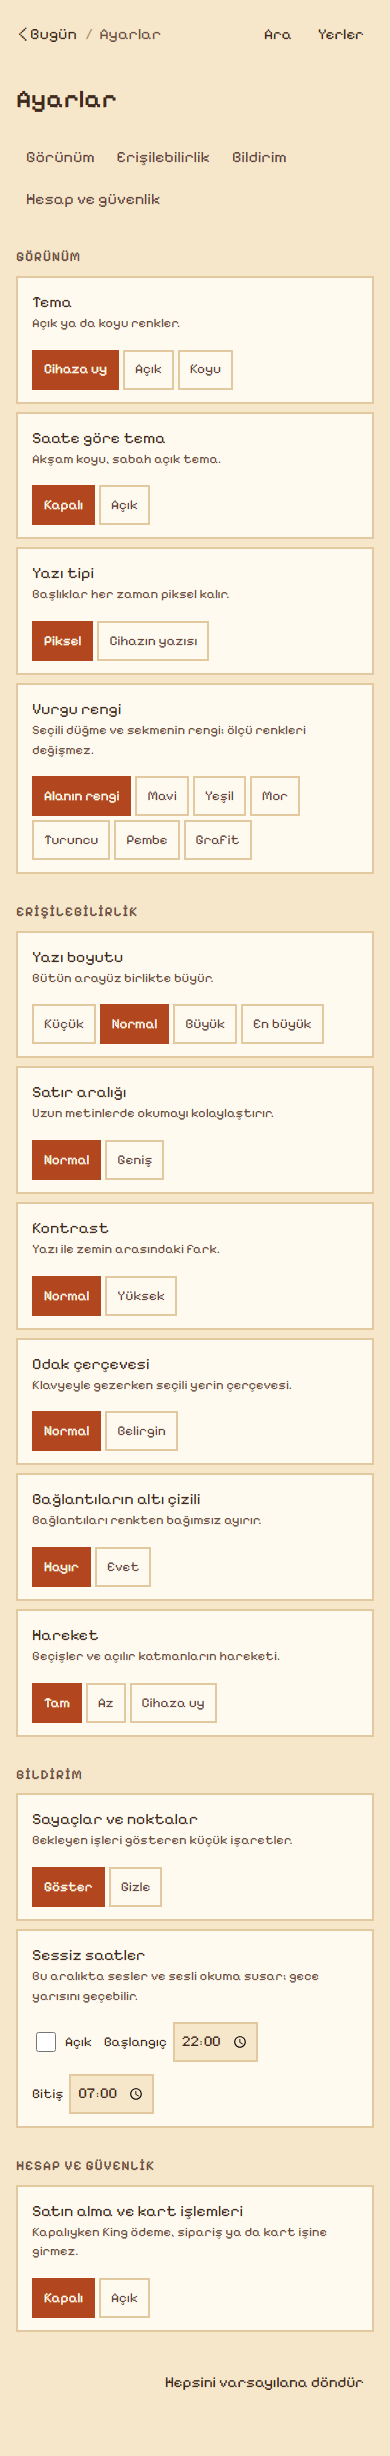
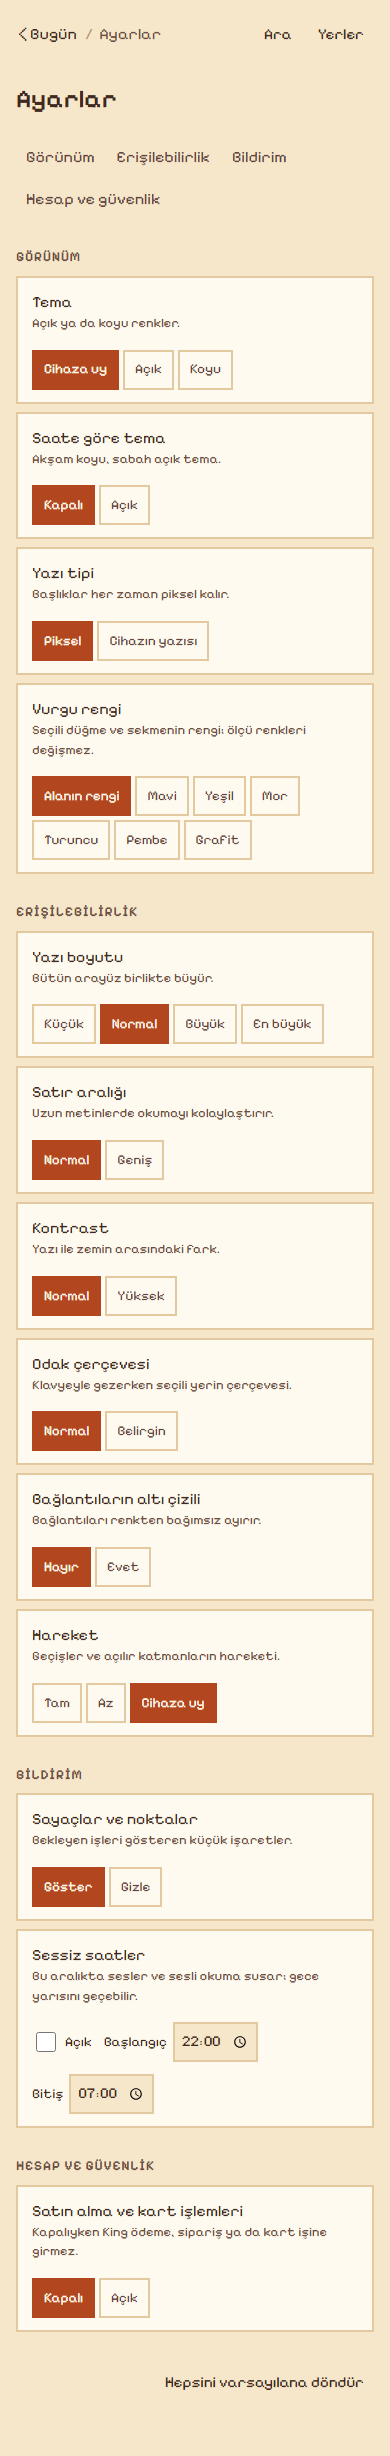
Faz 2 kabuk: sahibinin dokuz karari islendi (selamda Hesap adi, hareket varsayilani cihaza uy)
Yedi karar iskeletteki hali onayladi; ikisi kodu degistirdi. Ayarlar onizlemeleri
yeni varsayilanla yeniden cekildi; kabuk testleri 27/27.

Changed region(s): [[0.3385, 0.6808, 0.5538, 0.7117], [0.0615, 0.6808, 0.2154, 0.7117]]

diff --git a/kabuk/kabuk.js b/kabuk/kabuk.js
@@ -62,8 +62,13 @@
     return yerler.concat(ayarlar, eylemler);
   }
 
+  function selam(t, ad) {
+    var s = t.getHours(), soz = s < 5 ? 'İyi geceler' : s < 12 ? 'Günaydın' : s < 18 ? 'İyi günler' : 'İyi akşamlar';
+    ad = String(ad || '').trim();
+    return soz + (ad ? ' ' + ad : '') + '.';
+  }
   var Kabuk = kok.LIFEOS && kok.LIFEOS.Kabuk || {};
-  Kabuk.katla = katla; Kabuk.puan = puan; Kabuk.ara = ara; Kabuk.komutOgeleri = komutOgeleri;
+  Kabuk.katla = katla; Kabuk.puan = puan; Kabuk.ara = ara; Kabuk.komutOgeleri = komutOgeleri; Kabuk.selam = selam;
   kok.LIFEOS = kok.LIFEOS || {}; kok.LIFEOS.Kabuk = Kabuk;
   if (typeof module !== 'undefined' && module.exports) module.exports = Kabuk;
   if (typeof document === 'undefined') return;
@@ -88,7 +93,10 @@
   var GUN = ['Pazar', 'Pazartesi', 'Salı', 'Çarşamba', 'Perşembe', 'Cuma', 'Cumartesi'];
   var AY = ['Ocak', 'Şubat', 'Mart', 'Nisan', 'Mayıs', 'Haziran', 'Temmuz', 'Ağustos', 'Eylül', 'Ekim', 'Kasım', 'Aralık'];
   function tarih(t) { return GUN[t.getDay()] + ' · ' + t.getDate() + ' ' + AY[t.getMonth()]; }
-  function selam(t) { var s = t.getHours(); return s < 5 ? 'İyi geceler.' : s < 12 ? 'Günaydın.' : s < 18 ? 'İyi günler.' : 'İyi akşamlar.'; }
+  // ad Hesap oturumundan (hitap, yoksa görünen ad); Hesap yüklü değilse ya da oturum yoksa adsız selam
+  function hesapAdi() {
+    try { var o = kok.LIFEOS.Hesap.durum().oturum; return o ? (o.hitap || o.gorunen_ad || '') : ''; } catch (e) { return ''; }
+  }
   var DURUM_AD = { eski: 'eski sayfada', pilot: 'taşınıyor', plan: 'hazırlanıyor', yeni: '' };
 
   /* ---- Felsefe: Yol motoru salt okunur yüklenir; içerik dosyası file:// üzerinden okunamazsa yuva boş kalır ---- */
@@ -124,7 +132,7 @@
     var t = new Date(), ipucu = depo.getItem('lifeos.kabuk.ipucu') !== 'goruldu';
     var f = felsefe && !felsefe.hata ? felsefe : null;
     return ust('<span class="ust__tarih">' + tarih(t) + '</span>') +
-      '<div class="karsila"><h1 class="karsila__selam">' + selam(t) + '</h1>' +
+      '<div class="karsila"><h1 class="karsila__selam">' + kac(selam(t, hesapAdi())) + '</h1>' +
       '<p class="karsila__sira"><span class="soluk">Sırada</span><br>Felsefe · ' + (f ? kac(f.asama.ad) : 'ilk aşama') + '</p>' +
       '<a class="dugme dugme--ana" href="#/alan/felsefe">Başla</a>' +
       '<p class="karsila__sonra soluk">Günün geri kalanı plan aracı gelince burada görünür.</p>' +

diff --git a/kabuk/ayar.js b/kabuk/ayar.js
@@ -36,7 +36,7 @@
       secenekler: { normal: 'Normal', belirgin: 'Belirgin' }, aciklama: 'Klavyeyle gezerken seçili yerin çerçevesi.', kaynak: ENV + ' §3b lifeos.odak' },
     { anahtar: 'lifeos.altcizgi', ad: 'Bağlantıların altı çizili', tur: 'secim', varsayilan: 'hayir', grup: 'erisim', kok: 'data-altcizgi', esitlenir: true,
       secenekler: { hayir: 'Hayır', evet: 'Evet' }, aciklama: 'Bağlantıları renkten bağımsız ayırır.', kaynak: ENV + ' §3b lifeos.altcizgi' },
-    { anahtar: 'lifeos.hareket', ad: 'Hareket', tur: 'secim', varsayilan: 'tam', grup: 'erisim', kok: 'data-hareket', esitlenir: true,
+    { anahtar: 'lifeos.hareket', ad: 'Hareket', tur: 'secim', varsayilan: 'sistem', grup: 'erisim', kok: 'data-hareket', esitlenir: true,
       secenekler: { tam: 'Tam', az: 'Az', sistem: 'Cihaza uy' }, aciklama: 'Geçişler ve açılır katmanların hareketi.', kaynak: ENV + ' §3c Animasyon: hareket' },
     { anahtar: 'lifeos.rozet', ad: 'Sayaçlar ve noktalar', tur: 'secim', varsayilan: 'acik', grup: 'bildirim', kok: 'data-rozet', esitlenir: true,
       secenekler: { acik: 'Göster', kapali: 'Gizle' }, aciklama: 'Bekleyen işleri gösteren küçük işaretler.', kaynak: ENV + ' §3b lifeos.rozet' },

diff --git a/kabuk/kabuk.test.js b/kabuk/kabuk.test.js
@@ -15,6 +15,14 @@ function sahteDepo(ilk) {
   return { v, getItem: k => (k in v ? v[k] : null), setItem: (k, x) => { v[k] = String(x); }, removeItem: k => { delete v[k]; } };
 }
 
+// ---- sahibinin kararları (faz2-kabuk.md «Kararlar», 2026-11-13) ----
+t('karar: selam adı ekler, adsızsa yalın, saat dilimleri', () => {
+  const s = (saat, ad) => K.selam(new Date(2026, 10, 13, saat), ad);
+  esit([s(3), s(8), s(13), s(20)], ['İyi geceler.', 'Günaydın.', 'İyi günler.', 'İyi akşamlar.']);
+  esit(s(8, 'Altay'), 'Günaydın Altay.'); esit(s(8, '  '), 'Günaydın.'); esit(s(8, null), 'Günaydın.');
+});
+t('karar: hareket varsayılanı cihaza uyar', () => esit(A.tanim('lifeos.hareket').varsayilan, 'sistem'));
+
 // ---- harita ----
 t('harita: kayıt geçerli (denetle boş liste)', () => esit(H.denetle(), []));
 t('harita: id ve yol tekil', () => {

diff --git a/belgeler/ekip/sadelesme/faz2-kabuk.md b/belgeler/ekip/sadelesme/faz2-kabuk.md
@@ -115,22 +115,30 @@ Aynı koşuda işlev denetimi (sonuçlar):
 - Dört boyut/tema birleşiminde yatay taşma yok; konsolda hata yok.
 
 ## Testler
-`node kabuk/kabuk.test.js` → **25 geçti, 0 kaldı** (çıkış 0). Kapsam: kayıt geçerliliği (tekil id/yol, on alan, yedi motor ve King,
+`node kabuk/kabuk.test.js` → **27 geçti, 0 kaldı** (çıkış 0). Kapsam: kayıt geçerliliği (tekil id/yol, on alan, yedi motor ve King,
 eski bağlantılar, Felsefe pilot, halkadan ≤ 2 adım, komut çubuğundan 1 adım, bozuk kaydı yakalama), şema türetmeleri (zorunlu alanlar,
 varsayılan geçerli, doğrulama, bozuk değerde varsayılan, sıfırlama, eşitleme süzgeci, kök nitelikleri, çizimde kaçış ve radyo
 sayısı), sıralama (ç ğ ı İ ö ş ü katlama, aksansız arama, ad başı › kelime başı › açıklama, eşitlikte tür ve kısa ad, çok kelime).
 
-## Açık sorular
-1. **Halkada hangi yerler?** Şimdi altı: Bugün, Öğren, Sağlık, Not, King, Sistem haritası. Plan maketinde beş vardı (Ana sayfa,
-   Öğren, Sağlık, Not, King); altıncıyı (harita) her yere iki adım kuralı için ekledim. Ayarlar halkada değil, komut çubuğunda ve haritada.
-2. **«Motorlar» ekranda ne adla?** İç terim görünmesin diye «Araçlar» yazdım. Plan haritası «Motorlar» diyor.
-3. **Karşılama selamında ad:** maket «Günaydın Altay.» diyor; kabukta henüz profil kaynağı yok, ad gelmiyor. Ad nereden okunacak (kişi modeli mi, Hesap mı)?
-4. **Hareket varsayılanı:** eski karar «Tam» (cihazın «hareketi azalt» isteğini de geçersiz kılar). Erişilebilirlik için «Cihaza uy» daha güvenli; hangisi?
-5. **Yazı tipi seçenekleri:** eski listede altı yazı vardı (Inter, Manrope…); piksel kimlik kararıyla «Piksel / Cihazın yazısı» ikiye indirdim. Doğru mu?
-6. **Alan → eski modül eşlemesi:** Müzik ve Okuma ve yazı ESP'ye, Tahlil SPİ'ye bağlandı (çıkarım). Doğru mu?
-7. **Telefonda komut çubuğu:** plandaki «aşağı çek» hareketi yazılmadı; telefonda üst şeritteki «Ara» düğmesi var. Hareket gerekli mi?
-8. **Halka zemini:** okunurluk için yuvarlak bir zemin ekledim (piksel köşeli değil). Kare ya da zeminsiz varyasyon istenirse gösterilebilir.
-9. **«Hepsini varsayılana döndür»** ödeme kilidini de kapatır (güvenli yön). Eski «s» bayrağı (yalnız bazı ayarlar sıfırlanır) şemaya alınmadı; gerekli mi?
+## Kararlar (sahibi, 2026-11-13)
+Dokuz açık sorunun hepsi cevaplandı. Yedisi iskeletteki hâli onayladı, ikisi kodu değiştirdi (3 ve 4).
+
+| # | Soru | Karar | Kodda |
+|---|---|---|---|
+| 1 | Halkada hangi yerler | Altı yer: Bugün, Öğren, Sağlık, Not, King, Sistem haritası. Ayarlar komut çubuğunda ve haritada | değişmedi |
+| 2 | «Motorlar» ekranda ne adla | «Araçlar»; iç ad `motor` kalır | değişmedi |
+| 3 | Selamda ad | Evet, Hesap'tan (hitap, yoksa görünen ad); oturum yoksa adsız | `kabuk.js` `selam(t, ad)` + `hesapAdi()` |
+| 4 | Hareket varsayılanı | «Cihaza uy» (eski «Tam» kararının yerini alır) | `ayar.js` `lifeos.hareket` varsayılan `sistem` |
+| 5 | Yazı tipi seçenekleri | İki: Piksel / Cihazın yazısı | değişmedi |
+| 6 | Alan → eski modül eşlemesi | Doğru: Müzik ve Okuma ve yazı → ESP, Tahlil → SPİ | değişmedi |
+| 7 | Telefonda «aşağı çek» | Yazılmayacak; yalnız «Ara» düğmesi | değişmedi |
+| 8 | Halka zemini | Yuvarlak kalır | değişmedi |
+| 9 | «Hepsini varsayılana döndür» | Ödeme kilidi dahil hepsini sıfırlar; «s» bayrağı alınmaz | değişmedi |
+
+- Karar 3'ün sınırı: kabuk henüz `brand/ortak/hesap.js`'i yüklemiyor (hiçbir yerden sunulmuyor), bu yüzden ad ekranda
+  **henüz görünmez**; kabuk tek sunucuya bağlanıp Hesap yüklendiğinde kendiliğinden gelir. Okunan yer `LIFEOS.Hesap.durum().oturum`.
+- Karar 4: eski kullanıcıda kayıtlı değer varsa o geçerlidir; yalnız hiç seçmemiş olanlar «Cihaza uy» ile başlar.
+- İki karar testte (`karar: …`); ayarlar ekranının dört görüntüsü yeni varsayılanla yeniden çekildi.
 
 Atlananlar: ders ekranı, Not / Tekrar motorlarının ekranları, eski kabuğa bağlantı, sunucu üzerinden Felsefe içeriği denemesi
 (file:// fetch'i engellediği için denenemedi; kod yolu `Yol.yukle` + `Yol.durum`).
